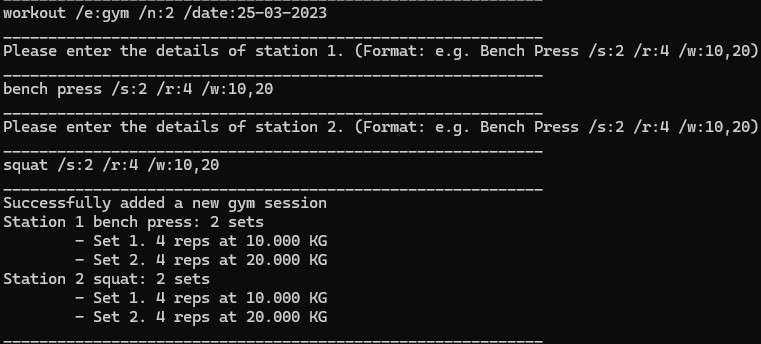
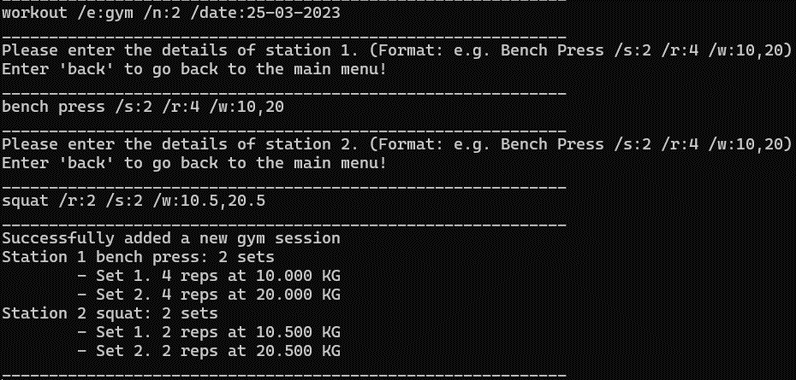
add 'back' for gym station, add trims

Changed region(s): [[0.0, 0.0872, 0.9974, 0.9593], [0.0, 0.0, 0.4534, 0.0581], [0.0, 0.9884, 0.7254, 1.0]]

diff --git a/src/main/java/utility/Parser.java b/src/main/java/utility/Parser.java
@@ -4,6 +4,7 @@ import constants.ErrorConstant;
 import constants.HealthConstant;
 import constants.UiConstant;
 import constants.WorkoutConstant;
+import workouts.WorkoutList;
 import health.Appointment;
 import health.Bmi;
 import health.HealthList;
@@ -537,6 +538,7 @@ public class Parser {
 
     /**
      * Retrieves the gym station details and adds a GymStation object to Gym.
+     * Exits to the main menu if the user inputs 'back'.
      *
      * @param numberOfStations The number of stations in one gym session.
      * @param gym              The Gym object.
@@ -545,10 +547,18 @@ public class Parser {
         for (int i = 0; i < numberOfStations; i++) {
             try {
                 output.printGymStationPrompt(i + 1);
-                String userInput = this.in.nextLine();
+                String userInput = this.in.nextLine().trim();
+
+                if (userInput.equals(WorkoutConstant.BACK)) {
+                    output.printGymStationExit();
+                    WorkoutList.deleteGym(WorkoutList.getGymSize() - 1);
+                    return;
+                }
+
                 if (countForwardSlash(userInput) > WorkoutConstant.NUM_OF_SLASHES_FOR_GYM_STATION) {
                     throw new CustomExceptions.InvalidInput(ErrorConstant.TOO_MANY_SLASHES_ERROR);
                 }
+
                 String[] validGymStationInputs = validation.splitAndValidateGymStationInput(userInput);
 
                 int numberOfSets = Integer.parseInt(validGymStationInputs[WorkoutConstant.GYM_STATION_SET_INDEX]);
@@ -562,11 +572,12 @@ public class Parser {
 
                 LogFile.writeLog("Added Gym Station: " +
                         validGymStationInputs[WorkoutConstant.GYM_STATION_NAME_INDEX], false);
-            } catch (CustomExceptions.InsufficientInput | CustomExceptions.InvalidInput e) {
+            } catch (CustomExceptions.InsufficientInput | CustomExceptions.InvalidInput |
+                     CustomExceptions.OutOfBounds e) {
+                i -= 1;
                 output.printException(e.getMessage());
             }
         }
-
         output.printAddGym(gym);
         LogFile.writeLog("Added Gym", false);
     }
@@ -637,7 +648,6 @@ public class Parser {
      * @param gymDetails the array of strings containing the gym details
      * @param baseCounter the base counter to start adding the station
      * @return the new base counter after adding the station
-     * @throws CustomExceptions.FileReadError if there is an error in the file input
      * @throws CustomExceptions.InvalidInput if the input is invalid
      */
     private int addStationFromFile(Gym gym, String[] gymDetails, int baseCounter)

diff --git a/src/main/java/constants/ErrorConstant.java b/src/main/java/constants/ErrorConstant.java
@@ -200,8 +200,6 @@ public class ErrorConstant {
     public static final String DESCRIPTION_LENGTH_ERROR = "Description cannot be more than 100 characters";
     public static final String INVALID_DESCRIPTION_ERROR = "Appointment description can only " +
             "contain alphanumeric characters, spaces, inverted commas and quotes!";
-    public static final String INVALID_APPOINTMENT_DATE_TIME_ERROR = "Date and time specified for appointment cannot " +
-            "be earlier than current date and time.";
 
     public static final String INSUFFICIENT_HISTORY_FILTER_ERROR = "Missing filter used!"
             + System.lineSeparator()
@@ -219,7 +217,7 @@ public class ErrorConstant {
             + System.lineSeparator()
             + "- appointment"
             + System.lineSeparator()
-            + "For example: 'latest /item:run'";
+            + "For example: 'history /item:run'";
 
     public static final String INSUFFICIENT_LATEST_FILTER_ERROR = "Filter is missing!"
             + System.lineSeparator()

diff --git a/src/test/java/ui/HandlerTest.java b/src/test/java/ui/HandlerTest.java
@@ -331,6 +331,23 @@ class HandlerTest {
     }
 
     /**
+     * Tests the behaviour of processInput when a gym command is entered, one station is added, and then the user
+     * types 'back' to exit.
+     */
+    @Test
+    void processInput_workoutCommandWithGymStationExit_expectsNoGymAddedAndDeleteMessage() {
+        String input = "workout /e:gym /n:2 /date:25-03-2023"
+                + System.lineSeparator()
+                + "bench press /s:2 /r:4 /w:10,20"
+                + System.lineSeparator()
+                + "back"
+                + System.lineSeparator();
+        Handler myHandler = new Handler(input);
+        myHandler.processInput();
+        assertTrue(outContent.toString().contains("Removed Gym entry with 1 station."));
+    }
+
+    /**
      * Tests the behaviour of userInduction when valid username is entered.
      * Expects welcome greeting to be printed.
      */

diff --git a/src/main/java/ui/Handler.java b/src/main/java/ui/Handler.java
@@ -57,7 +57,7 @@ public class Handler {
      */
     public void processInput() {
         while (in.hasNextLine()) {
-            String userInput = in.nextLine();
+            String userInput = in.nextLine().trim();
             String instruction = userInput.toUpperCase().split(UiConstant.SPLIT_BY_WHITESPACE)[0];
             LogFile.writeLog("User Input: " + userInput, false);
             assert userInput != null : "Object cannot be null";
@@ -258,7 +258,7 @@ public class Handler {
     public void userInduction() {
         String name;
         while (true) {
-            name = this.in.nextLine();
+            name = this.in.nextLine().trim();
             if (validation.validateIfUsernameIsValid(name)) {
                 System.err.println(ErrorConstant.INVALID_USERNAME_ERROR);
             } else {

diff --git a/src/main/java/ui/Output.java b/src/main/java/ui/Output.java
@@ -79,6 +79,7 @@ public class Output {
         System.out.println("Please enter the details of station "
                 + stationNumber
                 + ". (Format: " + WorkoutConstant.STATION_GYM_FORMAT + ")");
+        System.out.println("Enter 'back' to go back to the main menu!");
         printLine();
     }
 
@@ -275,6 +276,16 @@ public class Output {
                 printLine();
             }
         }
+        printLine();
+    }
+
+    /**
+     * Prints the message when user exits from entering gym station input.
+     */
+    public void printGymStationExit() {
+        printLine();
+        System.out.println("No longer entering gym input.");
+        System.out.println("Exiting to main menu!");
         printLine();
     }
 

diff --git a/src/main/java/workouts/WorkoutList.java b/src/main/java/workouts/WorkoutList.java
@@ -141,9 +141,14 @@ public class WorkoutList  {
         }
         Gym deletedGym = GYMS.get(index);
         Output.printLine();
+        String stationString = "stations.";
+        if (deletedGym.stations.size() == 1) {
+            stationString = "station.";
+        }
         System.out.println("Removed Gym entry with " +
                 deletedGym.stations.size() +
-                " stations.");
+                " " +
+                stationString);
         Output.printLine();
         WORKOUTS.remove(deletedGym);
         GYMS.remove(index);

diff --git a/src/main/java/constants/WorkoutConstant.java b/src/main/java/constants/WorkoutConstant.java
@@ -52,6 +52,7 @@ public class WorkoutConstant {
 
 
     // KEYWORDS
+    public static final String BACK = "back";
     public static final String RUN = "run";
     public static final String GYM = "gym";
     public static final String ALL = "workouts";

diff --git a/docs/UserGuide.md b/docs/UserGuide.md
@@ -176,6 +176,14 @@ Expected Output:
 
 ![Adding Gyms](img/output/adding_gym.png)
 
+If you want to exit the gym station input prompt and go back to the main menu to use other commands, use `back` to do so. PulsePilot will delete the latest gym added and you can then use the other commands.
+
+Expected Output:
+
+![Going Back](img/output/gym_station_back.png)
+
+
+
 > ⚠ **Minimum and Maximum inputs:**
 > Minimum Weight: 0kg, Maximum Weight: 2850kg
 > 
